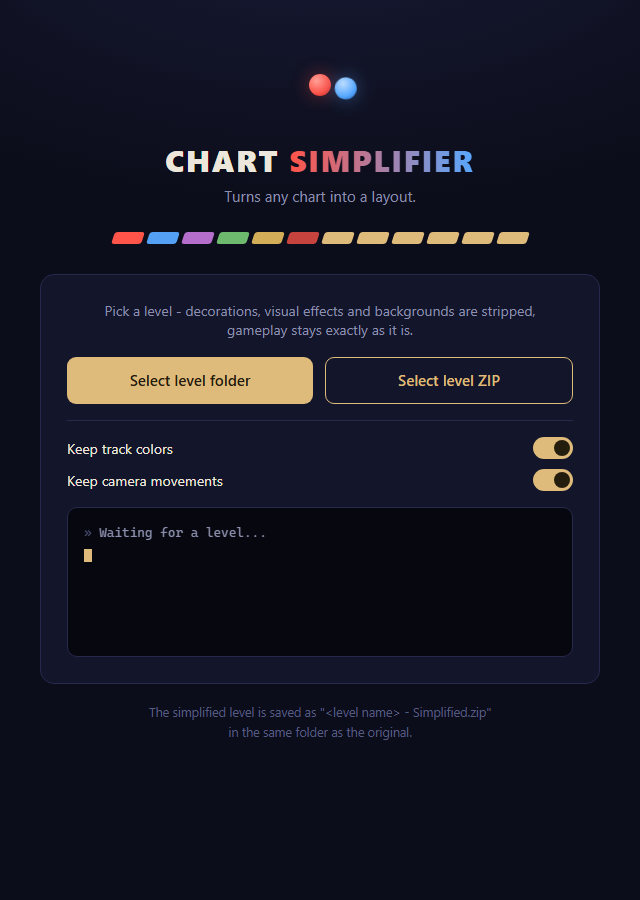
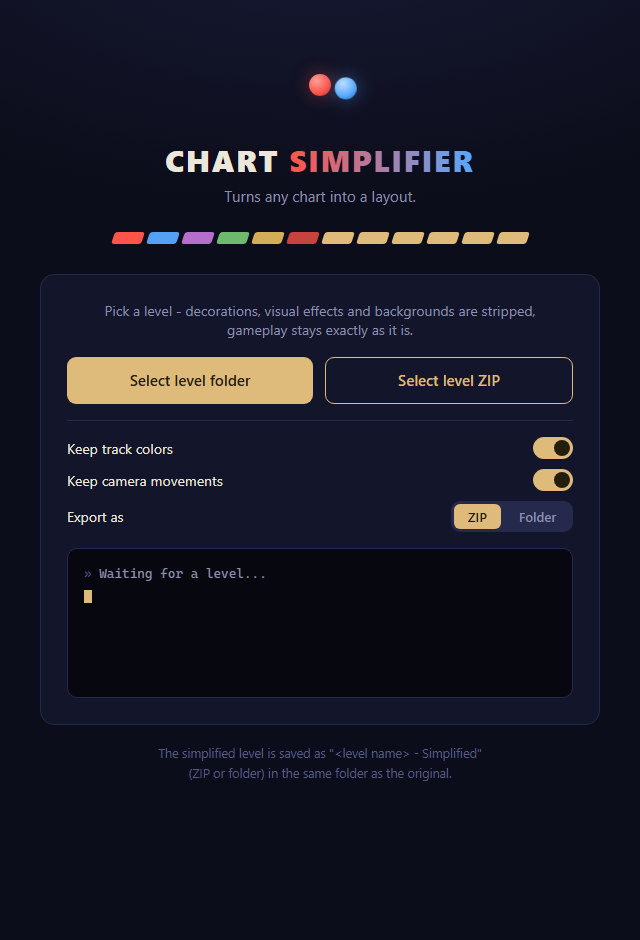
Camera reset zoom 150%, add ZIP/Folder export option

diff --git a/index.html b/index.html
@@ -134,6 +134,17 @@
   .opt input:focus-visible + .switch { outline: 2px solid var(--ice); outline-offset: 2px; }
   .opt:has(input:checked) { color: var(--text); }
 
+  /* export format segmented control */
+  .seg { display: flex; gap: 4px; background: #252a4d; border-radius: 9px; padding: 3px; }
+  .seg input { position: absolute; opacity: 0; }
+  .seg span {
+    display: block; padding: 4px 14px; border-radius: 6px;
+    font-size: 13px; font-weight: 600; color: var(--dim);
+    cursor: pointer; transition: background 0.15s ease, color 0.15s ease;
+  }
+  .seg input:checked + span { background: var(--track); color: #241d0e; }
+  .seg input:focus-visible + span { outline: 2px solid var(--ice); outline-offset: 1px; }
+
   /* ---- console ---- */
   .console {
     margin-top: 16px;
@@ -208,6 +219,13 @@
         <input type="checkbox" id="optCamera" checked>
         <span class="switch" aria-hidden="true"></span>
       </label>
+      <div class="opt" role="radiogroup" aria-label="Export as">
+        Export as
+        <div class="seg">
+          <label><input type="radio" name="outputFormat" value="zip" checked><span>ZIP</span></label>
+          <label><input type="radio" name="outputFormat" value="folder"><span>Folder</span></label>
+        </div>
+      </div>
     </div>
     <div class="console" id="console" role="log" aria-live="polite">
       <div class="line">Waiting for a level...</div>
@@ -216,8 +234,8 @@
   </div>
 
   <footer>
-    The simplified level is saved as "&lt;level name&gt; - Simplified.zip"<br>
-    in the same folder as the original.
+    The simplified level is saved as "&lt;level name&gt; - Simplified"<br>
+    (ZIP or folder) in the same folder as the original.
   </footer>
 </div>
 
@@ -276,7 +294,8 @@
         body: JSON.stringify({
           path: pick.path,
           keepTrackColor: document.getElementById("optTrackColor").checked,
-          keepCamera: document.getElementById("optCamera").checked
+          keepCamera: document.getElementById("optCamera").checked,
+          outputFormat: document.querySelector('input[name="outputFormat"]:checked').value
         })
       }).then(r => r.json());
       (res.log || []).forEach((entry, i) => {

diff --git a/simplifier.py b/simplifier.py
@@ -94,12 +94,12 @@ TRACK_COLOR_DEFAULTS = {
 }
 
 # Camera Settings defaults (used when "keep camera movements" is off) -
-# fresh-level values except zoom, which is set to 130%
+# fresh-level values except zoom, which is set to 150%
 CAMERA_DEFAULTS = {
     "relativeTo": "Player",
     "position": [0, 0],
     "rotation": 0,
-    "zoom": 130,
+    "zoom": 150,
     "pulseOnFloor": True,
 }
 
@@ -335,38 +335,56 @@ def simplify_level(input_path, log, options=None):
         if totals.get("track_reset"):
             log("Reset track color settings to default")
         if totals.get("camera_reset"):
-            log("Reset camera settings to default (zoom 130%)")
+            log("Reset camera settings to default (zoom 150%)")
         if totals.get("video_removed"):
             log("Removed video background")
 
-        # --- Build the output zip ---
+        # --- Write the output (zip or folder) ---
+        output_format = (options or {}).get("output_format", "zip")
         output_name = f"{level_name} - Simplified"
-        output_zip = output_dir / f"{output_name}.zip"
         skipped_files = 0
 
-        with zipfile.ZipFile(output_zip, "w", zipfile.ZIP_DEFLATED) as zf:
+        def include_files():
+            nonlocal skipped_files
             for file_path in sorted(level_root.rglob("*")):
                 if not file_path.is_file():
                     continue
-                rel = file_path.relative_to(level_root)
-                arcname = f"{output_name}/{rel.as_posix()}"
                 ext = file_path.suffix.lower()
+                if ((ext in IMAGE_EXTS or ext in VIDEO_EXTS)
+                        and file_path not in simplified_charts
+                        and file_path.name.strip().lower() not in referenced):
+                    skipped_files += 1
+                    continue
+                yield file_path, file_path.relative_to(level_root)
+
+        if output_format == "folder":
+            output_path = output_dir / output_name
+            if output_path.exists():
+                log(f"Replacing existing folder: {output_path.name}")
+                shutil.rmtree(output_path)
+            for file_path, rel in include_files():
+                target = output_path / rel
+                target.parent.mkdir(parents=True, exist_ok=True)
                 if file_path in simplified_charts:
-                    text = json.dumps(simplified_charts[file_path],
-                                      ensure_ascii=False, indent=2)
-                    zf.writestr(arcname, text)
-                elif ext in IMAGE_EXTS or ext in VIDEO_EXTS:
-                    if file_path.name.strip().lower() in referenced:
-                        zf.write(file_path, arcname)
-                    else:
-                        skipped_files += 1
+                    save_adofai(simplified_charts[file_path], target)
                 else:
-                    zf.write(file_path, arcname)
+                    shutil.copy2(file_path, target)
+        else:
+            output_path = output_dir / f"{output_name}.zip"
+            with zipfile.ZipFile(output_path, "w", zipfile.ZIP_DEFLATED) as zf:
+                for file_path, rel in include_files():
+                    arcname = f"{output_name}/{rel.as_posix()}"
+                    if file_path in simplified_charts:
+                        text = json.dumps(simplified_charts[file_path],
+                                          ensure_ascii=False, indent=2)
+                        zf.writestr(arcname, text)
+                    else:
+                        zf.write(file_path, arcname)
 
         if skipped_files:
             log(f"Deleted {skipped_files} unused image/video file(s) from the level folder")
-        log(f"Done! Saved: {output_zip}")
-        return output_zip
+        log(f"Done! Saved: {output_path}")
+        return output_path
     finally:
         if temp_dir is not None:
             shutil.rmtree(temp_dir, ignore_errors=True)
@@ -377,9 +395,11 @@ if __name__ == "__main__":
     args = [a for a in sys.argv[1:] if not a.startswith("--")]
     flags = {a for a in sys.argv[1:] if a.startswith("--")}
     if len(args) != 1:
-        print("Usage: python simplifier.py <level folder or zip> [--no-track-color] [--no-camera]")
+        print("Usage: python simplifier.py <level folder or zip>"
+              " [--no-track-color] [--no-camera] [--folder]")
         sys.exit(1)
     simplify_level(args[0], print, {
         "keep_track_color": "--no-track-color" not in flags,
         "keep_camera": "--no-camera" not in flags,
+        "output_format": "folder" if "--folder" in flags else "zip",
     })

diff --git a/app.py b/app.py
@@ -119,6 +119,8 @@ class Handler(BaseHTTPRequestHandler):
             options = {
                 "keep_track_color": bool(payload.get("keepTrackColor", True)),
                 "keep_camera": bool(payload.get("keepCamera", True)),
+                "output_format": ("folder" if payload.get("outputFormat") == "folder"
+                                  else "zip"),
             }
             log_lines = []
             try:

diff --git a/README.md b/README.md
@@ -9,7 +9,7 @@ ChartSimplifier strips an [A Dance of Fire and Ice](https://store.steampowered.c
 ## What it does
 
 Give it a level **folder** or a **ZIP** (nested folders are fine) and it produces
-`<level name> - Simplified.zip` in the same folder as the original. It runs in its
+`<level name> - Simplified` in the same folder as the original. It runs in its
 own native window - no browser, no console.
 
 ### Options
@@ -17,7 +17,8 @@ own native window - no browser, no console.
 - **Keep track colors** (on by default) - when off, Set Track Color / Recolor Track
   events are removed and the track color settings are reset to the defaults.
 - **Keep camera movements** (on by default) - when off, all Move Camera events are
-  removed and the Camera Settings are reset to defaults with zoom at 130%.
+  removed and the Camera Settings are reset to defaults with zoom at 150%.
+- **Export as** - ZIP (default) or a plain folder.
 
 ### Removed
 - All decorations from the Decorations tab: images, objects and particles (text decorations are kept)